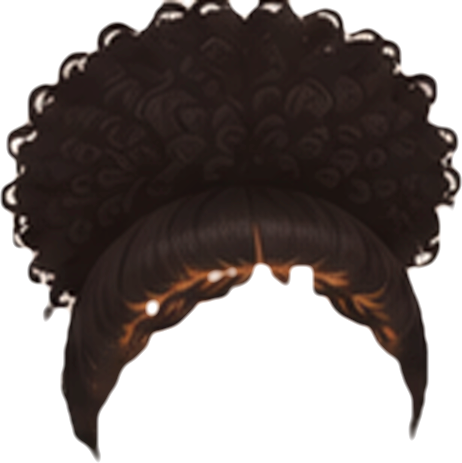
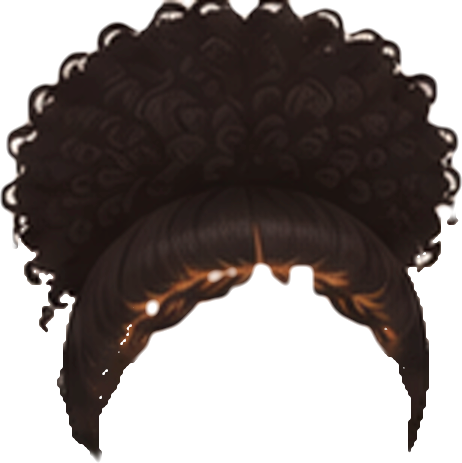
Chignon haut crépu et deux puffs : côtés et boucles qui pendent affinés comme le dessin
Claude-Session: https://claude.ai/code/session_01Vs8WE84NbYT2qCXEQSttrj

diff --git a/js/coiffures-art.js b/js/coiffures-art.js
@@ -1,2 +1,2 @@
 /* formes décalquées par tools/traceur-coiffures.py sur docs/references/coiffures/ — ne pas modifier à la main */
-const HAIR_ART={"longs":{"img":[61.76,56.98,276.48,530.04],"lum":[0.079,0.145,0.33],"fcut":[345,136],"main":"#2f2420","back":[["sil","M76.6,307.2 76.4,323.2 73.5,334.3 73.5,350.9 70.5,357.7 70.5,364.1 72.0,368.0 72.2,374.9 75.3,376.5 76.4,378.4 74.9,385.0 324.9,385.0 323.4,378.4 324.5,376.5 327.6,374.9 327.8,368.0 329.3,364.1 329.3,357.7 326.4,350.9 326.4,334.3 323.4,323.2 323.4,308.0 321.8,303.2 78.0,303.2Z","#211815"]],"front":[["sil","","#2f2420"]]},"carrelisse":{"img":[64.24,52.26,260.24,271.92],"lum":[0.075,0.147,0.377],"main":"#29201c","back":[["sil","","#1a1411"]],"front":[["sil","","#29201c"]]},"queuehaute2":{"img":[95.53,4.04,242.49,372.16],"lum":[0.081,0.152,0.38],"ears":1,"main":"#281e1b","back":[["sil","","#1c1613"]],"front":[["sil","","#281e1b"]]},"mechesdevant":{"img":[52.66,40.92,292.88,450.58],"lum":[0.066,0.132,0.372],"main":"#2b211d","back":[["sil","M64.8,297.4 64.8,308.7 61.3,313.7 61.3,317.6 59.6,322.1 59.6,329.7 57.9,334.2 57.9,343.6 56.1,348.1 56.1,353.9 52.7,367.2 52.7,379.7 54.2,381.9 76.9,382.1 76.9,392.1 73.5,405.3 73.5,411.1 71.7,415.7 71.7,423.3 70.0,427.8 70.0,452.7 71.7,457.3 71.9,462.3 76.5,473.3 86.7,483.9 96.9,486.5 103.4,491.3 287.7,491.3 294.2,486.5 299.6,485.7 306.5,482.2 315.0,474.0 320.8,458.8 321.1,448.6 322.8,444.1 322.8,436.5 321.1,431.9 321.1,420.9 319.3,416.3 319.3,407.0 317.6,402.5 317.6,394.9 315.9,390.3 315.9,383.8 343.8,383.6 345.3,381.5 345.3,370.6 343.6,366.1 343.6,362.0 341.9,357.4 341.9,353.3 338.4,340.1 338.4,334.2 334.9,321.0 334.9,311.7 333.2,307.2 333.2,301.3 331.7,297.4Z","#1a1411"]],"front":[["sil","","#2b211d"]]},"frangedroite":{"img":[73.46,44.39,265.15,443.65],"lum":[0.071,0.146,0.373],"main":"#291f1c","back":[["sil","M77.6,297.6 76.9,324.5 75.2,329.0 75.2,340.1 76.9,344.6 76.9,353.7 73.5,358.7 73.5,369.5 76.3,373.7 281.2,374.1 281.4,412.9 283.1,417.4 283.1,449.3 284.9,453.8 285.3,485.0 290.5,487.8 331.0,487.8 338.0,485.0 338.4,471.1 336.7,466.6 336.7,446.9 334.9,442.3 334.9,429.6 333.2,425.0 333.2,415.7 331.5,411.1 331.5,400.1 329.7,395.5 329.7,388.0 328.0,383.4 328.0,356.8 326.3,352.2 326.3,341.2 324.5,336.6 324.5,318.6 322.8,314.1 322.8,299.6 321.9,297.4Z","#191310"]],"front":[["sil","","#291f1c"]]},"chignonhaut2":{"img":[88.56,-28.55,213.5,337.75],"lum":[0.102,0.159,0.406],"ears":1,"main":"#2d241f","back":[["sil","","#241b18"]],"front":[["sil","","#2d241f"]]},"raiecotel":{"img":[45.39,39.7,268.92,446.25],"lum":[0.074,0.142,0.34],"main":"#271f1d","back":[["sil","M62.7,479.8 65.2,483.5 71.5,485.7 126.4,485.7 129.9,483.3 130.3,472.4 125.1,455.5 125.1,451.4 123.3,446.8 123.3,440.9 121.6,436.3 121.6,425.1 119.8,420.5 119.8,407.6 118.1,403.0 118.1,374.4 116.8,370.0 313.0,369.8 314.1,367.8 314.1,351.6 312.3,347.0 312.3,318.4 310.6,313.8 310.6,296.9 58.8,296.9 57.1,302.6 57.1,312.0 55.3,316.6 55.3,324.3 53.6,328.9 53.6,340.0 51.8,344.6 51.8,352.3 50.1,356.9 50.1,362.8 48.3,367.4 48.3,373.3 46.6,377.9 46.6,383.8 44.8,388.4 44.8,391.7 45.7,394.3 60.6,394.5 60.6,404.8 58.8,409.4 58.8,460.8 60.6,465.4 60.6,469.5 62.3,474.1Z","#181412"]],"front":[["sil","","#271f1d"]]},"deuxtresses":{"img":[80.41,47.89,228.48,455.17],"lum":[0.079,0.134,0.364],"ears":1,"main":"#2b221e","back":[["sil","","#1c1613"]],"front":[["sil","","#2b221e"]]},"serretete":{"img":[63.31,42.58,266.87,334.02],"lum":[0.067,0.132,0.354],"acc":1,"main":"#211a17","back":[["sil","M67.1,299.6 66.8,315.3 65.1,319.9 65.1,331.2 63.3,335.8 63.3,345.3 65.1,349.9 65.1,355.9 63.3,360.5 63.3,374.2 64.4,376.2 324.0,376.2 326.9,378.2 328.4,378.0 329.7,376.2 330.0,349.9 328.2,345.3 328.2,327.0 326.4,322.3 326.4,302.2 324.7,296.5 68.4,296.5Z","#16120f"]],"front":[["sil","","#211a17"]]},"barrette":{"img":[57.2,42.54,269.53,306.42],"lum":[0.067,0.141,0.442],"acc":1,"main":"#271e1b","back":[["sil","M57.2,297.8 57.2,307.8 59.0,312.5 59.2,317.6 63.0,329.0 67.9,337.7 82.6,342.2 96.7,344.2 105.8,347.5 115.4,347.5 120.1,349.3 123.7,348.9 125.3,345.8 283.2,345.8 290.6,342.4 305.5,340.2 309.6,337.3 315.8,335.9 318.9,332.6 321.4,325.9 324.5,322.8 324.7,317.9 326.5,313.2 326.5,297.8Z","#17120f"]],"front":[["sil","","#271e1b"]]},"raiemilieu":{"img":[55.52,32.13,284.14,450.5],"lum":[0.067,0.142,0.369],"main":"#281f1b","back":[["sil","M62.8,296.8 62.8,299.8 61.0,304.6 61.0,321.7 59.2,326.4 59.2,341.7 57.3,346.5 57.3,356.3 55.5,361.0 55.5,374.5 56.4,376.8 58.3,378.1 73.7,378.4 73.7,390.9 71.9,395.7 71.9,401.8 70.1,406.6 70.1,412.7 68.3,417.5 68.3,425.5 66.5,430.3 66.5,440.1 64.6,444.8 64.6,458.3 62.8,463.0 62.8,479.9 63.9,481.9 327.8,482.4 329.9,481.3 330.3,468.5 328.5,463.7 328.5,444.8 326.7,440.1 326.7,430.3 324.9,425.5 324.9,419.3 323.0,414.6 323.0,408.4 321.2,403.6 321.2,393.8 319.4,389.1 318.9,379.7 338.8,379.5 339.4,377.2 339.4,357.4 337.6,352.6 337.6,339.2 335.8,334.4 335.8,321.0 334.0,316.2 334.0,306.4 332.2,301.6 332.2,296.8Z","#1b1511"]],"front":[["sil","","#281f1b"]]},"queuelisse":{"img":[87.02,5.23,239.8,369.02],"lum":[0.07,0.142,0.374],"ears":1,"main":"#231b18","back":[["sil","M87.0,297.3 87.0,309.3 88.8,314.0 88.8,339.9 87.0,344.7 87.0,364.9 88.6,367.2 306.5,367.4 316.9,371.5 321.6,375.3 323.9,375.1 326.4,373.0 326.6,364.5 324.8,359.8 324.8,353.7 323.0,348.9 323.0,342.8 321.2,338.1 321.2,332.0 319.4,327.3 319.4,319.4 317.6,314.7 317.6,308.6 315.8,303.9 315.8,297.3Z","#171310"]],"front":[["sil","","#231b18"]]},"bafro":{"img":[-35.38,-42.2,441.59,404.36],"lum":[0.084,0.118,0.456],"main":"#231917","back":[["sil","","#1e1512"]],"front":[["sil","","#231917"]]},"bbantu":{"img":[64.41,16.43,267.67,201.6],"lum":[0.08,0.126,0.397],"ears":1,"main":"#241a17","back":[["sil","","#1e1513"]],"front":[["sil","","#241a17"]]},"bcarre":{"img":[-2.61,34.18,393.98,324.86],"lum":[0.08,0.117,0.406],"main":"#221816","back":[["sil","","#1c1411"]],"front":[["sil","","#221816"]]},"bchignon":{"img":[50.96,-55.67,266.11,266.68],"lum":[0.09,0.13,0.531],"ears":1,"main":"#271c19","back":[["sil","","#211715"]],"front":[["sil","","#271c19"]]},"bpuffs":{"img":[-2.22,-19.51,380.5,271.12],"lum":[0.083,0.121,0.556],"ears":1,"main":"#241a17","back":[["sil","","#1e1513"]],"front":[["sil","","#241a17"]]},"bbox":{"img":[36.18,45.08,305.45,357.81],"lum":[0.066,0.11,0.397],"main":"#261c19","back":[["sil","","#18110f"]],"front":[["sil","","#261c19"]]},"bcollees":{"img":[93.21,46.92,210.07,306.63],"lum":[0.063,0.119,0.512],"ears":1,"main":"#211816","back":[["sil","","#1a1211"]],"front":[["sil","","#211816"]]},"bdemiqueue":{"img":[-4.99,-5.51,384.79,420.41],"lum":[0.074,0.116,0.445],"main":"#211815","back":[["sil","","#1b1210"]],"front":[["sil","","#211815"]]},"bqueue":{"img":[-19.11,-13.87,331.64,450.88],"lum":[0.05,0.101,0.479],"ears":1,"main":"#1b120f","back":[["sil","","#140c0a"]],"front":[["sil","","#1b120f"]]},"blongs":{"img":[-15.94,38.56,410.84,382.62],"lum":[0.075,0.114,0.378],"main":"#261c19","back":[["sil","","#1b1310"]],"front":[["sil","","#261c19"]]},"bchignonhaut":{"img":[54.2,-60.1,265.5,238.46],"lum":[0.045,0.099,0.528],"ears":1,"main":"#1a120f","back":[["sil","","#130b09"]],"front":[["sil","","#1a120f"]]},"bchignonbas":{"img":[2.88,22.15,317.2,322.46],"lum":[0.05,0.107,0.353],"ears":1,"main":"#1e1512","back":[["sil","","#150d0b"]],"front":[["sil","","#1e1512"]]},"btwists":{"img":[44.85,44.74,293.57,371.61],"lum":[0.066,0.11,0.393],"main":"#201614","back":[["sil","","#19110f"]],"front":[["sil","","#201614"]]},"bchignonmeches":{"img":[64.47,-46.78,265.5,320.89],"lum":[0.045,0.109,0.56],"ears":1,"main":"#1c1411","back":[["sil","","#130c0a"]],"front":[["sil","","#1c1411"]]},"bwashgo":{"img":[-14.33,34.03,409.46,330.57],"lum":[0.079,0.111,0.473],"main":"#211715","back":[["sil","","#1c1411"]],"front":[["sil","","#211715"]]},"bfoulard":{"img":[17.63,-15.05,289.29,226.51],"lum":[0.077,0.119,0.521],"acc":1,"ears":1,"main":"#211815","back":[["sil","","#1c1311"]],"front":[["sil","","#211815"]]},"btressesboucles":{"img":[-20.98,37.88,402.54,365.23],"lum":[0.074,0.109,0.442],"main":"#201614","back":[["sil","","#1a1210"]],"front":[["sil","","#201614"]]},"bcourt":{"img":[49.71,4.49,284.72,212.07],"lum":[0.096,0.123,0.417],"ears":1,"main":"#261b19","back":[["sil","","#211815"]],"front":[["sil","","#261b19"]]},"bqueuehaute":{"img":[-47.74,-22.65,369.64,407.31],"lum":[0.048,0.098,0.449],"ears":1,"main":"#1a120f","back":[["sil","","#130c09"]],"front":[["sil","","#1a120f"]]},"btressesarriere":{"img":[4.41,37.45,303.72,347.3],"lum":[0.044,0.096,0.382],"ears":1,"main":"#19110e","back":[["sil","","#120b08"]],"front":[["sil","","#19110e"]]}};
+const HAIR_ART={"longs":{"img":[61.76,56.98,276.48,530.04],"lum":[0.079,0.145,0.33],"fcut":[345,136],"main":"#2f2420","back":[["sil","M76.6,307.2 76.4,323.2 73.5,334.3 73.5,350.9 70.5,357.7 70.5,364.1 72.0,368.0 72.2,374.9 75.3,376.5 76.4,378.4 74.9,385.0 324.9,385.0 323.4,378.4 324.5,376.5 327.6,374.9 327.8,368.0 329.3,364.1 329.3,357.7 326.4,350.9 326.4,334.3 323.4,323.2 323.4,308.0 321.8,303.2 78.0,303.2Z","#211815"]],"front":[["sil","","#2f2420"]]},"carrelisse":{"img":[64.24,52.26,260.24,271.92],"lum":[0.075,0.147,0.377],"main":"#29201c","back":[["sil","","#1a1411"]],"front":[["sil","","#29201c"]]},"queuehaute2":{"img":[95.53,4.04,242.49,372.16],"lum":[0.081,0.152,0.38],"ears":1,"main":"#281e1b","back":[["sil","","#1c1613"]],"front":[["sil","","#281e1b"]]},"mechesdevant":{"img":[52.66,40.92,292.88,450.58],"lum":[0.066,0.132,0.372],"main":"#2b211d","back":[["sil","M64.8,297.4 64.8,308.7 61.3,313.7 61.3,317.6 59.6,322.1 59.6,329.7 57.9,334.2 57.9,343.6 56.1,348.1 56.1,353.9 52.7,367.2 52.7,379.7 54.2,381.9 76.9,382.1 76.9,392.1 73.5,405.3 73.5,411.1 71.7,415.7 71.7,423.3 70.0,427.8 70.0,452.7 71.7,457.3 71.9,462.3 76.5,473.3 86.7,483.9 96.9,486.5 103.4,491.3 287.7,491.3 294.2,486.5 299.6,485.7 306.5,482.2 315.0,474.0 320.8,458.8 321.1,448.6 322.8,444.1 322.8,436.5 321.1,431.9 321.1,420.9 319.3,416.3 319.3,407.0 317.6,402.5 317.6,394.9 315.9,390.3 315.9,383.8 343.8,383.6 345.3,381.5 345.3,370.6 343.6,366.1 343.6,362.0 341.9,357.4 341.9,353.3 338.4,340.1 338.4,334.2 334.9,321.0 334.9,311.7 333.2,307.2 333.2,301.3 331.7,297.4Z","#1a1411"]],"front":[["sil","","#2b211d"]]},"frangedroite":{"img":[73.46,44.39,265.15,443.65],"lum":[0.071,0.146,0.373],"main":"#291f1c","back":[["sil","M77.6,297.6 76.9,324.5 75.2,329.0 75.2,340.1 76.9,344.6 76.9,353.7 73.5,358.7 73.5,369.5 76.3,373.7 281.2,374.1 281.4,412.9 283.1,417.4 283.1,449.3 284.9,453.8 285.3,485.0 290.5,487.8 331.0,487.8 338.0,485.0 338.4,471.1 336.7,466.6 336.7,446.9 334.9,442.3 334.9,429.6 333.2,425.0 333.2,415.7 331.5,411.1 331.5,400.1 329.7,395.5 329.7,388.0 328.0,383.4 328.0,356.8 326.3,352.2 326.3,341.2 324.5,336.6 324.5,318.6 322.8,314.1 322.8,299.6 321.9,297.4Z","#191310"]],"front":[["sil","","#291f1c"]]},"chignonhaut2":{"img":[88.56,-28.55,213.5,337.75],"lum":[0.102,0.159,0.406],"ears":1,"main":"#2d241f","back":[["sil","","#241b18"]],"front":[["sil","","#2d241f"]]},"raiecotel":{"img":[45.39,39.7,268.92,446.25],"lum":[0.074,0.142,0.34],"main":"#271f1d","back":[["sil","M62.7,479.8 65.2,483.5 71.5,485.7 126.4,485.7 129.9,483.3 130.3,472.4 125.1,455.5 125.1,451.4 123.3,446.8 123.3,440.9 121.6,436.3 121.6,425.1 119.8,420.5 119.8,407.6 118.1,403.0 118.1,374.4 116.8,370.0 313.0,369.8 314.1,367.8 314.1,351.6 312.3,347.0 312.3,318.4 310.6,313.8 310.6,296.9 58.8,296.9 57.1,302.6 57.1,312.0 55.3,316.6 55.3,324.3 53.6,328.9 53.6,340.0 51.8,344.6 51.8,352.3 50.1,356.9 50.1,362.8 48.3,367.4 48.3,373.3 46.6,377.9 46.6,383.8 44.8,388.4 44.8,391.7 45.7,394.3 60.6,394.5 60.6,404.8 58.8,409.4 58.8,460.8 60.6,465.4 60.6,469.5 62.3,474.1Z","#181412"]],"front":[["sil","","#271f1d"]]},"deuxtresses":{"img":[80.41,47.89,228.48,455.17],"lum":[0.079,0.134,0.364],"ears":1,"main":"#2b221e","back":[["sil","","#1c1613"]],"front":[["sil","","#2b221e"]]},"serretete":{"img":[63.31,42.58,266.87,334.02],"lum":[0.067,0.132,0.354],"acc":1,"main":"#211a17","back":[["sil","M67.1,299.6 66.8,315.3 65.1,319.9 65.1,331.2 63.3,335.8 63.3,345.3 65.1,349.9 65.1,355.9 63.3,360.5 63.3,374.2 64.4,376.2 324.0,376.2 326.9,378.2 328.4,378.0 329.7,376.2 330.0,349.9 328.2,345.3 328.2,327.0 326.4,322.3 326.4,302.2 324.7,296.5 68.4,296.5Z","#16120f"]],"front":[["sil","","#211a17"]]},"barrette":{"img":[57.2,42.54,269.53,306.42],"lum":[0.067,0.141,0.442],"acc":1,"main":"#271e1b","back":[["sil","M57.2,297.8 57.2,307.8 59.0,312.5 59.2,317.6 63.0,329.0 67.9,337.7 82.6,342.2 96.7,344.2 105.8,347.5 115.4,347.5 120.1,349.3 123.7,348.9 125.3,345.8 283.2,345.8 290.6,342.4 305.5,340.2 309.6,337.3 315.8,335.9 318.9,332.6 321.4,325.9 324.5,322.8 324.7,317.9 326.5,313.2 326.5,297.8Z","#17120f"]],"front":[["sil","","#271e1b"]]},"raiemilieu":{"img":[55.52,32.13,284.14,450.5],"lum":[0.067,0.142,0.369],"main":"#281f1b","back":[["sil","M62.8,296.8 62.8,299.8 61.0,304.6 61.0,321.7 59.2,326.4 59.2,341.7 57.3,346.5 57.3,356.3 55.5,361.0 55.5,374.5 56.4,376.8 58.3,378.1 73.7,378.4 73.7,390.9 71.9,395.7 71.9,401.8 70.1,406.6 70.1,412.7 68.3,417.5 68.3,425.5 66.5,430.3 66.5,440.1 64.6,444.8 64.6,458.3 62.8,463.0 62.8,479.9 63.9,481.9 327.8,482.4 329.9,481.3 330.3,468.5 328.5,463.7 328.5,444.8 326.7,440.1 326.7,430.3 324.9,425.5 324.9,419.3 323.0,414.6 323.0,408.4 321.2,403.6 321.2,393.8 319.4,389.1 318.9,379.7 338.8,379.5 339.4,377.2 339.4,357.4 337.6,352.6 337.6,339.2 335.8,334.4 335.8,321.0 334.0,316.2 334.0,306.4 332.2,301.6 332.2,296.8Z","#1b1511"]],"front":[["sil","","#281f1b"]]},"queuelisse":{"img":[87.02,5.23,239.8,369.02],"lum":[0.07,0.142,0.374],"ears":1,"main":"#231b18","back":[["sil","M87.0,297.3 87.0,309.3 88.8,314.0 88.8,339.9 87.0,344.7 87.0,364.9 88.6,367.2 306.5,367.4 316.9,371.5 321.6,375.3 323.9,375.1 326.4,373.0 326.6,364.5 324.8,359.8 324.8,353.7 323.0,348.9 323.0,342.8 321.2,338.1 321.2,332.0 319.4,327.3 319.4,319.4 317.6,314.7 317.6,308.6 315.8,303.9 315.8,297.3Z","#171310"]],"front":[["sil","","#231b18"]]},"bafro":{"img":[-35.38,-42.2,441.59,404.36],"lum":[0.084,0.118,0.456],"main":"#231917","back":[["sil","","#1e1512"]],"front":[["sil","","#231917"]]},"bbantu":{"img":[64.41,16.43,267.67,201.6],"lum":[0.08,0.126,0.397],"ears":1,"main":"#241a17","back":[["sil","","#1e1513"]],"front":[["sil","","#241a17"]]},"bcarre":{"img":[-2.61,34.18,393.98,324.86],"lum":[0.08,0.117,0.406],"main":"#221816","back":[["sil","","#1c1411"]],"front":[["sil","","#221816"]]},"bchignon":{"img":[50.96,-55.67,266.11,266.68],"lum":[0.09,0.13,0.494],"ears":1,"main":"#271c19","back":[["sil","","#211715"]],"front":[["sil","","#271c19"]]},"bpuffs":{"img":[-2.22,-19.51,380.5,324.65],"lum":[0.083,0.122,0.511],"ears":1,"main":"#241a18","back":[["sil","","#1e1513"]],"front":[["sil","","#241a18"]]},"bbox":{"img":[36.18,45.08,305.45,357.81],"lum":[0.066,0.11,0.397],"main":"#261c19","back":[["sil","","#18110f"]],"front":[["sil","","#261c19"]]},"bcollees":{"img":[93.21,46.92,210.07,306.63],"lum":[0.063,0.119,0.512],"ears":1,"main":"#211816","back":[["sil","","#1a1211"]],"front":[["sil","","#211816"]]},"bdemiqueue":{"img":[-4.99,-5.51,384.79,420.41],"lum":[0.074,0.116,0.445],"main":"#211815","back":[["sil","","#1b1210"]],"front":[["sil","","#211815"]]},"bqueue":{"img":[-19.11,-13.87,331.64,450.88],"lum":[0.05,0.101,0.479],"ears":1,"main":"#1b120f","back":[["sil","","#140c0a"]],"front":[["sil","","#1b120f"]]},"blongs":{"img":[-15.94,38.56,410.84,382.62],"lum":[0.075,0.114,0.378],"main":"#261c19","back":[["sil","","#1b1310"]],"front":[["sil","","#261c19"]]},"bchignonhaut":{"img":[54.2,-60.1,265.5,238.46],"lum":[0.045,0.099,0.528],"ears":1,"main":"#1a120f","back":[["sil","","#130b09"]],"front":[["sil","","#1a120f"]]},"bchignonbas":{"img":[2.88,22.15,317.2,322.46],"lum":[0.05,0.107,0.353],"ears":1,"main":"#1e1512","back":[["sil","","#150d0b"]],"front":[["sil","","#1e1512"]]},"btwists":{"img":[44.85,44.74,293.57,371.61],"lum":[0.066,0.11,0.393],"main":"#201614","back":[["sil","","#19110f"]],"front":[["sil","","#201614"]]},"bchignonmeches":{"img":[64.47,-46.78,265.5,320.89],"lum":[0.045,0.109,0.56],"ears":1,"main":"#1c1411","back":[["sil","","#130c0a"]],"front":[["sil","","#1c1411"]]},"bwashgo":{"img":[-14.33,34.03,409.46,330.57],"lum":[0.079,0.111,0.473],"main":"#211715","back":[["sil","","#1c1411"]],"front":[["sil","","#211715"]]},"bfoulard":{"img":[17.63,-15.05,289.29,226.51],"lum":[0.077,0.119,0.521],"acc":1,"ears":1,"main":"#211815","back":[["sil","","#1c1311"]],"front":[["sil","","#211815"]]},"btressesboucles":{"img":[-20.98,37.88,402.54,365.23],"lum":[0.074,0.109,0.442],"main":"#201614","back":[["sil","","#1a1210"]],"front":[["sil","","#201614"]]},"bcourt":{"img":[49.71,4.49,284.72,212.07],"lum":[0.096,0.123,0.417],"ears":1,"main":"#261b19","back":[["sil","","#211815"]],"front":[["sil","","#261b19"]]},"bqueuehaute":{"img":[-47.74,-22.65,369.64,407.31],"lum":[0.048,0.098,0.449],"ears":1,"main":"#1a120f","back":[["sil","","#130c09"]],"front":[["sil","","#1a120f"]]},"btressesarriere":{"img":[4.41,37.45,303.72,347.3],"lum":[0.044,0.096,0.382],"ears":1,"main":"#19110e","back":[["sil","","#120b08"]],"front":[["sil","","#19110e"]]}};

diff --git a/tools/traceur-coiffures.py b/tools/traceur-coiffures.py
@@ -44,6 +44,8 @@ for i, ids in enumerate([['bafro', 'bbantu', 'bcarre', 'bchignon', 'bpuffs'], ['
 HAIRS['bbox']['bottom'] = 222
 HAIRS['bfoulard']['accessoire'] = 'foulard'
 HAIRS['bafro']['trous'] = HAIRS['bcarre']['trous'] = [(140, 175, 280, 332), (225, 260, 280, 332)]   # sous la mâchoire, entre les boucles et le cou
+HAIRS['bchignon']['fin'] = [(60, 128, 70, 205), (272, 340, 70, 205)]   # côtés, des tempes aux oreilles
+HAIRS['bpuffs']['fin'] = [(30, 112, 130, 300), (268, 345, 130, 300)]   # boucles qui pendent devant les oreilles
 HAIRS['bbantu']['fermer'] = [(265, 310, 55, 105)]   # tempe droite, entre les deux nœuds
 for k in ['bbantu', 'bchignon', 'bpuffs', 'bcollees', 'bfoulard', 'bcourt'] + FACE6: HAIRS[k]['oreilles'] = True
 # modèles de visage : image, découpe (sourcils -> bouche), centre des yeux et menton dans la découpe, taille par rapport au visage de « longs »
@@ -120,6 +122,14 @@ for hid, c in HAIRS.items():
     hair = np.isin(lab, big)
     hair = cv2.morphologyEx(hair.astype(np.uint8), cv2.MORPH_CLOSE, np.ones((3, 3), np.uint8)).astype(bool)
     hair = cv2.morphologyEx(hair.astype(np.uint8), cv2.MORPH_OPEN, np.ones((7, 1), np.uint8)).astype(bool)   # enlève les traits fins horizontaux (contour des épaules)
+    Zfin = None
+    if c.get('fin'):   # zones affinées (montrées par Prescillia) : mèches fines et boucles qui pendent gardées telles quelles, sans épaississement
+        fs_, fcx_, fch_ = c['face']; k_ = K_LONGS / fs_
+        U_ = 200 + (np.arange(im.shape[1]) - fcx_) * k_; V_ = CHIN_U + (np.arange(im.shape[0]) - fch_) * k_
+        Zfin = np.zeros(hair.shape, bool)
+        for u0, u1, v0, v1 in c['fin']: Zfin |= ((V_ >= v0) & (V_ <= v1))[:, None] & ((U_ >= u0) & (U_ <= u1))[None, :]
+        n_, lab_, st_, _ = cv2.connectedComponentsWithStats((cand & Zfin).astype(np.uint8), 8)
+        hair = (hair & ~Zfin) | np.isin(lab_, [i for i in range(1, n_) if st_[i][4] >= 6])
     if c.get('match'):   # boucles d'oreilles du dessin (perles blanches cerclées de foncé) : retirées des cheveux, le trou sera bouché
         fs_ = c['face'][0]; pe = (lum > 185) & (abs(r - b) < 40)
         pe[:int(c['chin'] - 50 * fs_)] = False; pe[int(c['chin'] - 5 * fs_):] = False
@@ -319,6 +329,11 @@ for hid, c in HAIRS.items():
     lab_[..., 0] = Lc.astype(np.uint8); px = cv2.cvtColor(lab_, cv2.COLOR_LAB2BGR)[:, :, ::-1]
     al = cv2.morphologyEx(al, cv2.MORPH_CLOSE, np.ones((11, 11), np.uint8))   # bouche les encoches du bord
     al = np.clip((cv2.GaussianBlur(al, (0, 0), 4) - .5) * 3 + .5, 0, 1)   # contour adouci et régulier (pas de bosses)
+    if Zfin is not None:   # dans les zones affinées : contour fin du dessin (pas de bouchage ni de gros flou)
+        Fs = cv2.resize(F.astype(np.float32), sz, interpolation=cv2.INTER_AREA)
+        afin = np.clip((cv2.GaussianBlur(Fs, (0, 0), .8) - .5) * 2.5 + .5, 0, 1)
+        Zs = cv2.GaussianBlur(cv2.resize(Zfin.astype(np.float32), sz, interpolation=cv2.INTER_NEAREST), (0, 0), 3)
+        al = al * (1 - Zs) + afin * Zs
     # contours extérieurs lisses sur les côtés (demandé par Prescillia) : sous les tempes, le bord gauche et le bord droit
     # suivent une courbe moyenne ; les bosses sont coupées, les creux comblés avec les mèches voisines (en miroir)
     rows_ = [y for y in range(al.shape[0]) if (al[y] > .5).any()]
